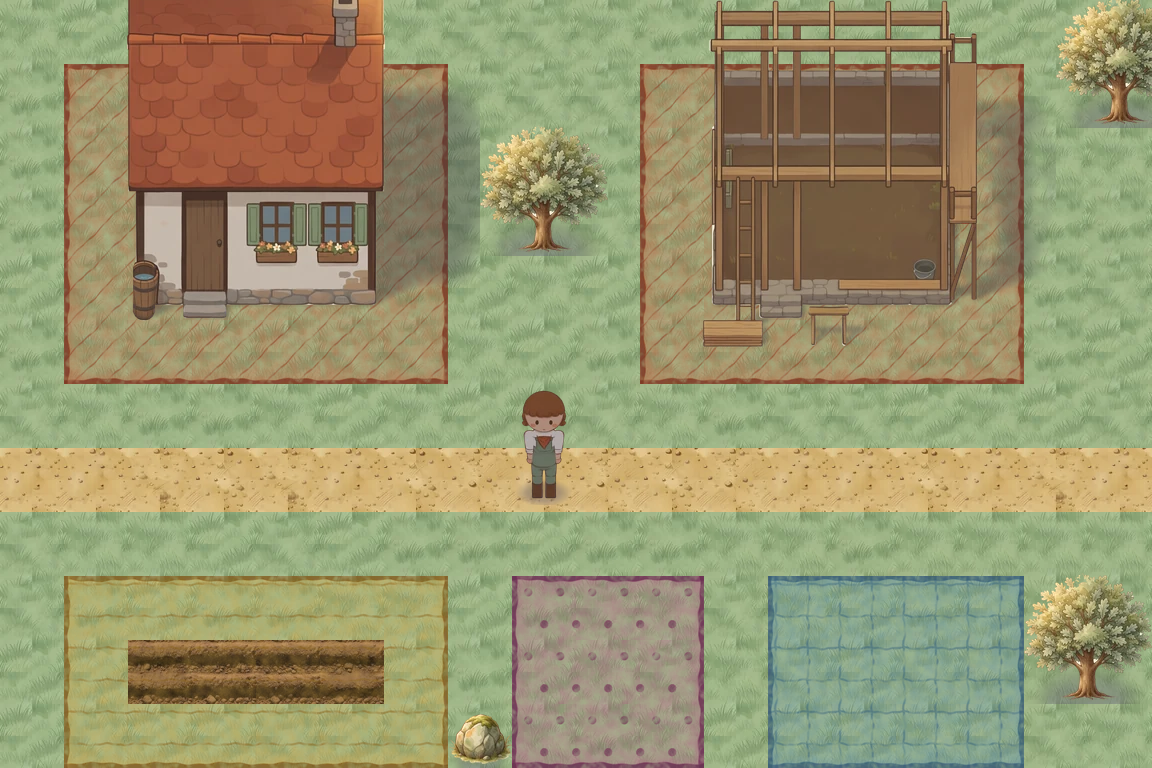
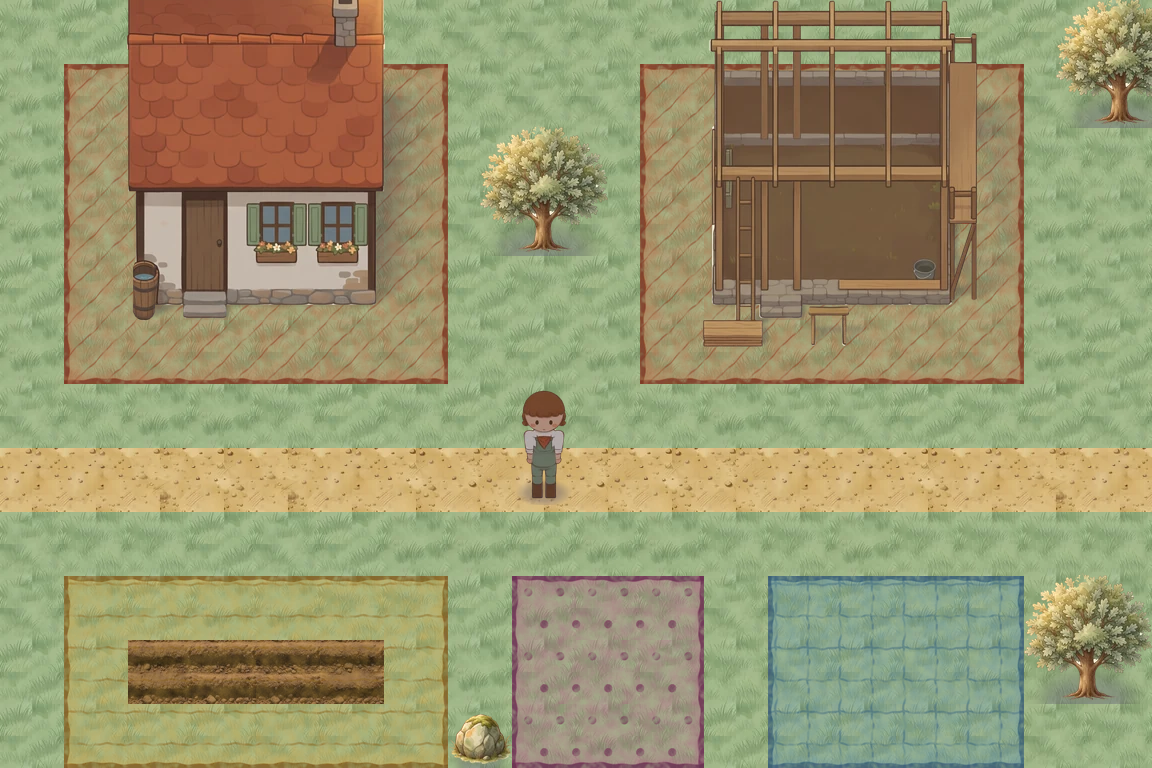
feat(arte): cobertizo, caja de envío, zonas y escena de muestra de M4 (PARADA 2)

Changed region(s): [[0.3438, 0.125, 0.4375, 0.375], [0.8438, 0.125, 0.9062, 0.375]]

diff --git a/assets-src/edificios/laminas.py b/assets-src/edificios/laminas.py
@@ -1,0 +1,96 @@
+"""Láminas de presentación de las paradas del arte de M4 (PARADA 2).
+
+Uso: python assets-src/edificios/laminas.py   (después de `escena.py`)
+Escribe `assets-src/edificios/muestra/parada2-lamina.png`.
+"""
+
+from __future__ import annotations
+
+import random
+from pathlib import Path
+
+from PIL import Image, ImageDraw, ImageFont
+
+RAIZ = Path(__file__).resolve().parents[2]
+M = RAIZ / "assets-src/edificios/muestra"
+A = RAIZ / "public/assets"
+SEPIA = (74, 52, 38)
+CREMA = (245, 236, 206)
+
+
+def fuente(negrita: bool = False) -> ImageFont.ImageFont:
+    try:
+        return ImageFont.truetype(f"C:/Windows/Fonts/segoeui{'b' if negrita else ''}.ttf", 26 if negrita else 22)
+    except OSError:
+        return ImageFont.load_default()
+
+
+def sprite(n: str) -> Image.Image:
+    return Image.open(A / f"edificios/{n}@2x.webp").convert("RGBA")
+
+
+def casillas(ruta: Path) -> list[Image.Image]:
+    h = Image.open(ruta).convert("RGBA")
+    return [h.crop((i * 64, 0, (i + 1) * 64, 64)) for i in range(h.width // 64)]
+
+
+def demo_colocacion(valida: bool) -> Image.Image:
+    """Cobertizo fantasma (60 % de opacidad) con las casillas de su huella encima."""
+    rnd = random.Random(3)
+    hierba = casillas(A / "terreno/tile-hierba@2x.webp")
+    marca = casillas(A / "zonas/colocacion@2x.webp")[0 if valida else 1]
+    im = Image.new("RGBA", (6 * 64, 5 * 64))
+    for y in range(5):
+        for x in range(6):
+            im.alpha_composite(rnd.choice(hierba), (x * 64, y * 64))
+    if not valida:
+        roca = Image.open(A / "objetos/roca@2x.webp").convert("RGBA")
+        im.alpha_composite(roca, (3 * 64, 3 * 64))
+    g = sprite("cobertizo-terminado")
+    g.putalpha(g.getchannel("A").point(lambda v: int(v * 0.6)))
+    im.alpha_composite(g, (32, round(4.5 * 64) - g.height))
+    for y in (2, 3):
+        for x in (1, 2, 3):
+            im.alpha_composite(marca, (x * 64, y * 64))
+    return im
+
+
+def main() -> None:
+    fb, f = fuente(True), fuente()
+    esc = Image.open(M / "parada2@2x.png")
+    e1 = Image.open(M / "parada2@1x.png")
+    filas = [
+        ("Casa 4×3 — terminada · en obra · cimientos (opcional)", ["casa-terminado", "casa-obra", "casa-cimientos"]),
+        ("Cobertizo 3×2 — terminado · en obra · cimientos (opcional)   ·   Caja de envío 1×1 — terminada · en obra",
+         ["cobertizo-terminado", "cobertizo-obra", "cobertizo-cimientos", "caja-terminado", "caja-obra"]),
+    ]
+    alto_filas = sum(45 + max(sprite(n).height for n in ns) + 20 for _, ns in filas)
+    W = esc.width + 40 + e1.width + 60
+    H = 45 + esc.height + 30 + alto_filas + 45 + 5 * 64 + 30
+    L = Image.new("RGB", (W, H), CREMA)
+    d = ImageDraw.Draw(L)
+    d.text((20, 10), "Granja de muestra (@2x): zonas, casa, cobertizo, caja de envío y un cobertizo en obra", font=fb, fill=SEPIA)
+    L.paste(esc, (20, 45))
+    x2 = 20 + esc.width + 40
+    d.text((x2, 10), "Tamaño real @1x", font=fb, fill=SEPIA)
+    L.paste(e1, (x2, 45))
+    y = 45 + esc.height + 30
+    for titulo, ns in filas:
+        d.text((20, y), titulo, font=fb, fill=SEPIA)
+        y += 45
+        ims = [sprite(n) for n in ns]
+        h = max(i.height for i in ims)
+        x = 20
+        for i in ims:
+            L.paste(i, (x, y + h - i.height), i)
+            x += i.width + 20
+        y += h + 20
+    d.text((20, y), "Vista previa de colocación (opcional): válida · no válida (roca en la huella)", font=fb, fill=SEPIA)
+    L.paste(demo_colocacion(True).convert("RGB"), (20, y + 40))
+    L.paste(demo_colocacion(False).convert("RGB"), (20 + 6 * 64 + 30, y + 40))
+    L.save(M / "parada2-lamina.png")
+    print(L.size)
+
+
+if __name__ == "__main__":
+    main()

diff --git a/assets-src/edificios/montaje.py b/assets-src/edificios/montaje.py
@@ -65,7 +65,10 @@ def componer(pintada: Image.Image, alfa: Image.Image, sombra: Image.Image) -> Im
     # Igual que con el protagonista: erosionar 1 px el alfa quita el filo claro que pinta el modelo.
     a = np.asarray(alfa.filter(ImageFilter.MinFilter(3)).filter(ImageFilter.GaussianBlur(0.6)), dtype=np.float32) / 255
     s = np.asarray(sombra.filter(ImageFilter.GaussianBlur(6)), dtype=np.float32) / 255 * SOMBRA_OPACIDAD
-    s = s * (1 - a)
+    # La sombra se desvanece al alejarse del edificio (≈ 1 casilla): proyectada entera se leía
+    # como una mancha rectangular sobre la hierba.
+    cerca = np.asarray(alfa.filter(ImageFilter.GaussianBlur(PX_M8 * 0.45)), dtype=np.float32) / 255
+    s = s * np.clip(cerca * 2.2, 0, 1) * (1 - a)
     col = np.asarray(pintada, dtype=np.float32) / 255
     # Píxeles de sombra: color de la sombra con opacidad s (en el juego se dibuja en modo normal;
     # sobre el terreno equivale de sobra al «multiplicar» de la biblia a esta opacidad).

diff --git a/docs/informes/arte-m4.md b/docs/informes/arte-m4.md
@@ -1,0 +1,77 @@
+# Arte de M4: edificios y zonas, notas para conectarlo en M5-00
+
+**Rama:** `arte/m4-edificios-zonas` · **Fichas:** [edificios](../../assets-src/fichas/edificios.md), [zonas](../../assets-src/fichas/zonas.md) · **Biblia:** [BIBLIA.md](../arte/BIBLIA.md)
+
+No se ha tocado `src/`. Todo está en `public/assets/edificios/` y `public/assets/zonas/` a @1x y @2x
+(WebP con alfa, filtrado lineal), listo para cargarse en M5-00.
+
+## Edificios
+
+Coordenadas como en M4: una casilla mide 32 px @1x y `(x, y)` es la **esquina superior izquierda
+de la huella**, en casillas. Huellas: casa 4 × 3, cobertizo 3 × 2, caja 1 × 1 (`data/edificios.json`).
+
+| Archivo (`edificios/`) | Marco @1x | @2x | Sprite: esquina sup. izq. @1x | `setOrigin` en la esquina frontal izq. de la huella |
+|---|---|---|---|---|
+| `casa-{terminado,obra,cimientos}` | 192 × 192 | 384 × 384 | `(32x − 16, 32y − 80)` | `(0.0833, 0.9167)` en `(32x, 32(y + 3))` |
+| `cobertizo-{terminado,obra,cimientos}` | 160 × 160 | 320 × 320 | `(32x − 16, 32y − 80)` | `(0.1, 0.9)` en `(32x, 32(y + 2))` |
+| `caja-{terminado,obra}` | 80 × 64 | 160 × 128 | `(32x − 16, 32y − 16)` | `(0.2, 0.75)` en `(32x, 32(y + 1))` |
+
+- Cada marco deja **media casilla** de margen a la izquierda y abajo (el alero, el barril, los
+  tablones) y más a la derecha y arriba (sombra y altura). Todos los estados de un edificio
+  comparten marco: para pasar de la obra al edificio terminado basta con cambiar la textura.
+- El sprite sobresale de la huella hacia arriba (tejado), como el árbol del prototipo. Eso es
+  correcto en 3/4: lo que ocupa casillas es la huella, no la imagen.
+- La **sombra proyectada** va dentro del sprite (biblia §3). No hay que añadir sombra de contacto.
+- **Estados:** `terminado` y `obra` (lo que usa M4-05, un único estado con andamio).
+  `cimientos` es un extra opcional para el primer día de una obra de varios días. La caja no lo
+  tiene. El cartel de días que faltan lo dibuja el juego encima, delante de la huella.
+
+## Zonas
+
+`zonas/zona-<cultivo|huerto|vivienda|almacen>`: tira de 8 casillas (256 × 32 @1x, 512 × 64 @2x).
+
+| Índice | Uso |
+|---|---|
+| 0–3 | Relleno: una variante por casilla, elegida con la semilla del valle como el terreno |
+| 4 / 5 / 6 / 7 | Borde **arriba / derecha / abajo / izquierda**: se dibuja encima del relleno en cada lado cuya casilla vecina no es de la misma zona |
+
+Las zonas son semitransparentes y se dibujan **encima del terreno**. Ver la ficha para la
+justificación (lavado + trama + borde, legible sin depender del color).
+
+`zonas/colocacion` (opcional, 2 casillas): `0` válida y `1` no válida. Se dibuja una por casilla
+de la huella, **encima** del edificio fantasma (su sprite `terminado` al 60 % de opacidad).
+
+## Orden de dibujo
+
+1. Terreno.
+2. Zonas: relleno y luego bordes.
+3. Edificios, árboles, rocas y personajes **ordenados por la fila de su borde frontal**: la
+   profundidad es `32 · (y + alto)` en los edificios y la `y` de los pies en el personaje. Así el
+   protagonista queda tapado por la casa cuando pasa por detrás y la tapa cuando pasa por delante.
+4. Vista previa de colocación: el fantasma y, encima, las casillas `colocacion`.
+5. Cartel de obra e interfaz.
+
+## Muestras
+
+- `assets-src/edificios/muestra/parada1-lamina.png`: la casa y las zonas, aprobadas en la
+  PARADA 1. Se hizo antes de difuminar las sombras.
+- `assets-src/edificios/muestra/parada2-lamina.png` y `parada2@{1,2}x.png`: la granja completa.
+- Se regeneran con `python assets-src/edificios/escena.py` y `laminas.py`, que leen solo las
+  entregas de `public/assets/`.
+
+## Coste en tiempo (RTX 4070)
+
+| Paso | Tiempo |
+|---|---|
+| Blender: 8 modelos, color y sombra | ≈ 40 s en total |
+| Acuarela en ComfyUI (≈ 1,15 Mpx) | ≈ 2 min por imagen; 8 imágenes, ≈ 17 min |
+| Zonas (procedural) | segundos |
+
+## Pendiente y avisos
+
+- **Defecto previo del prototipo:** `public/assets/objetos/arbol@{1,2}x.webp` tiene un halo casi
+  transparente que, sobre la hierba, se ve como un rectángulo claro alrededor del árbol (se nota
+  en las escenas de muestra). Conviene limpiar el alfa antes de conectarlo en M5-00.
+- `comfy launch` falla en este equipo porque usa el Python del sistema, que no tiene `torch`.
+  Hay que arrancar ComfyUI con el Python embebido del paquete portable (ver la ficha).
+- Cuando se aborde el issue #11 (DPR), estas texturas siguen la misma regla que el resto (biblia §8).

diff --git a/assets-src/fichas/edificios.md b/assets-src/fichas/edificios.md
@@ -1,0 +1,68 @@
+# Ficha — Edificios de M4 (casa, cobertizo, caja de envío)
+
+| Campo | Valor |
+|---|---|
+| Recursos | `casa-{terminado,obra,cimientos}`, `cobertizo-{terminado,obra,cimientos}`, `caja-{terminado,obra}` |
+| Estado | Casa aprobada en la PARADA 1 (2026-11-13); conjunto pendiente de la PARADA 2 |
+| Huellas | casa 4 × 3, cobertizo 3 × 2, caja 1 × 1 casillas (M4-02, aprobadas por la PO) |
+| Modelo 3D | `assets-src/edificios/blender/edificios.py` → `edificios.blend` (una colección por edificio y fase) |
+| Acuarela | Qwen-Image 2512 fp8 img2img, *denoise* **0,5**, 30 pasos, CFG 4, euler/simple, AuraFlow 3.1, ControlNet InstantX Union (Canny) a 0,8 hasta el 80 %, **semilla 8101** |
+| Generador | `assets-src/edificios/comfy/acuarela_edificios.py` (*prompts* en `EDIFICIOS` y `OBRA`) |
+| Fuentes pintadas | `assets-src/edificios/acuarela/<edificio>-<fase>.png` (salida cruda de ComfyUI) |
+| Maestros | `assets-src/edificios/maestros/<edificio>-<fase>@4x.png` |
+| Entregas | `public/assets/edificios/<edificio>-<fase>@1x.webp` y `@2x.webp` |
+| Fecha | 2026-11-13 |
+
+## Cómo se regeneran
+
+```bash
+blender -b -P assets-src/edificios/blender/edificios.py -- --salida <render> --guardar assets-src/edificios/blender/edificios.blend
+python assets-src/edificios/montaje.py preparar <render> <preparado>
+python assets-src/edificios/comfy/acuarela_edificios.py <preparado> assets-src/edificios/acuarela --denoise 0.5
+python assets-src/edificios/montaje.py entregar <preparado> assets-src/edificios/acuarela
+python assets-src/edificios/escena.py && python assets-src/edificios/laminas.py
+```
+
+ComfyUI tiene que estar en marcha en `127.0.0.1:8188`. En este equipo `comfy launch` usa un
+Python sin `torch`: hay que arrancarlo con el Python embebido del paquete portable
+(`python_embeded\python.exe -s ComfyUI\main.py --windows-standalone-build --listen 127.0.0.1`).
+
+## Método (el mismo del protagonista, biblia §2, §3, §5 y §6)
+
+1. **Blender pone la forma.** Piezas modeladas por código a escala real (1 casilla = 1 m), con el
+   material NPR de 3 bandas y sombra violeta del protagonista y el contorno sepia por casco
+   invertido (*Solidify* de 0,018 m). Cámara ortográfica a 45° mirando al norte y el sol de la
+   biblia (rotación 35°, 0, −67°). Los umbrales de luz del material son más bajos que en el
+   personaje: con ese sol rasante, las fachadas (que miran al sur) quedaban en sombra.
+2. **Sombra proyectada en una segunda pasada:** el suelo blanco iluminado con el edificio invisible
+   para la cámara pero haciendo sombra. `montaje.py` la convierte en la sombra violeta de la
+   biblia (#5A5470 al 35 %), la difumina y la desvanece a ≈ 1 casilla del edificio: proyectada
+   entera se leía como una mancha rectangular.
+3. **Estirado × √2** en vertical (biblia §2) y composición sobre papel crema.
+4. **Pasada de acuarela.** A diferencia del personaje se usa *denoise* 0,5, no 0,3: con 0,3 el
+   render casi no cambiaba (tejado liso, paredes planas) y aquí no hay fotogramas que puedan
+   parpadear. Con 0,5 el modelo pinta tejas en escama, tablas, piedras del zócalo y flores sin
+   mover la silueta, porque el ControlNet ve los bordes del render.
+5. **Recorte** con el alfa del render erosionado 1 px (el filo claro que pinta el modelo) y
+   reducción a @4x, @2x y @1x.
+
+## Escala
+
+La puerta de la casa mide 1,7 m: lo mismo que el protagonista (1,7 casillas). Los muros miden
+2 m y la cumbrera 2,75 m. En la primera prueba (muros de 1,3 m) la puerta parecía de juguete.
+
+## Variantes y descartes
+
+| Pieza | Notas |
+|---|---|
+| Casa, *denoise* 0,3 y 0,42 | Descartadas en la PARADA 1: tejado liso y muros grisáceos |
+| Casa en obra, primera versión | El zócalo macizo se leía como una losa de hormigón; ahora es un anillo de piedra con tierra dentro |
+| Huella 3 × 2 de la casa | Primera prueba antes de conocer la huella aprobada (4 × 3) |
+
+## Límites conocidos
+
+- La pasada a 0,5 añade algún detalle que no está en el modelo (un cubo en la obra de la casa,
+  sacos dentro del cobertizo en obra). Es decoración y no cambia la silueta.
+- El cobertizo en obra no lleva andamio, solo la escalera: con 2 m de altura bastaba.
+- El cartel con los días de obra que restan lo dibuja el juego (M4-05); los sprites en obra
+  dejan libre el frente de la huella.

diff --git a/assets-src/fichas/zonas.md b/assets-src/fichas/zonas.md
@@ -1,0 +1,48 @@
+# Ficha — Marcas de zona y casillas de colocación (M4)
+
+| Campo | Valor |
+|---|---|
+| Recursos | `zona-cultivo`, `zona-huerto`, `zona-vivienda`, `zona-almacen`; `colocacion` |
+| Estado | Propuesta aprobada en la PARADA 1 (2026-11-13) |
+| Generador | `assets-src/zonas/zonas.py` (procedural, numpy; **semilla 4101**) |
+| Entregas | `public/assets/zonas/zona-<tipo>@1x.webp` (256 × 32: 8 casillas) y `@2x` (512 × 64); `colocacion@1x.webp` (64 × 32) y `@2x` |
+| Fecha | 2026-11-13 |
+
+## Propuesta: lavado + trama + borde
+
+La zona no sustituye al terreno: se pinta **encima**. Una zona de Cultivo es hierba hasta que se
+ara, así que un *tile* de suelo propio taparía lo que importa y chocaría con la tierra arada. Cada
+casilla de zona lleva tres cosas:
+
+1. **Lavado** semitransparente del color de la zona (≈ 30 %), con variaciones suaves de densidad y
+   grano de papel: la acuarela de la biblia §6.
+2. **Trama a plumilla** propia de cada zona, con un trazo algo tembloroso y la tinta que se carga
+   y se interrumpe. Distingue las zonas **sin depender del color** (daltonismo, pantallas al sol) y
+   tiene solo 2 trazos por casilla, así que no vibra al hacer zoom (biblia §7.5).
+3. **Borde** en el perímetro de la zona: el pigmento acumulado en el filo, como cuando se seca una
+   mancha de acuarela (*edge darkening*, biblia §6). Mide unos 2–3 px @1x (biblia §7.3).
+
+| Zona | Lavado | Tinta | Trama | Por qué |
+|---|---|---|---|---|
+| Cultivo | `#D2A548` trigo | `#7F6026` | rayas horizontales | surcos |
+| Huerto | `#B25A86` ciruela | `#6A3153` | puntos al tresbolillo | frutos |
+| Vivienda | `#C0603F` terracota | `#7E3A26` | diagonales | tejados |
+| Almacén | `#5F8FA8` azul | `#3B5E74` | cuadrícula | cajas apiladas |
+
+Para Ganado, Taller y Decoración basta con añadir una entrada a `ZONAS` con su color y una trama
+nueva (p. ej. ondas o cruces).
+
+## Hoja de cada zona
+
+8 casillas en fila: `0–3` relleno (4 variantes que se reparten con la semilla del valle, igual que
+el terreno) y `4–7` borde **arriba, derecha, abajo, izquierda**. Todo es periódico con periodo de
+1 casilla: el relleno repite sin costuras y los bordes de casillas vecinas continúan. El juego
+dibuja en cada casilla de la zona un relleno y, encima, el borde de cada lado cuya casilla vecina
+no es de la misma zona. Las esquinas, tanto las salientes como las entrantes, salen solas.
+
+## Colocación (opcional)
+
+`colocacion`: casilla **válida** (crema clara con filo salvia oscuro) e **inválida** (terracota con
+rayas y filo rojo oscuro). Se dibujan sobre cada casilla de la huella, **encima** del edificio
+fantasma, que se dibuja con su sprite al 60 % de opacidad. Si se prefiere no usar imágenes, el
+mismo efecto se obtiene tiñendo el fantasma (`setTint`) y dibujando rectángulos con esos colores.
